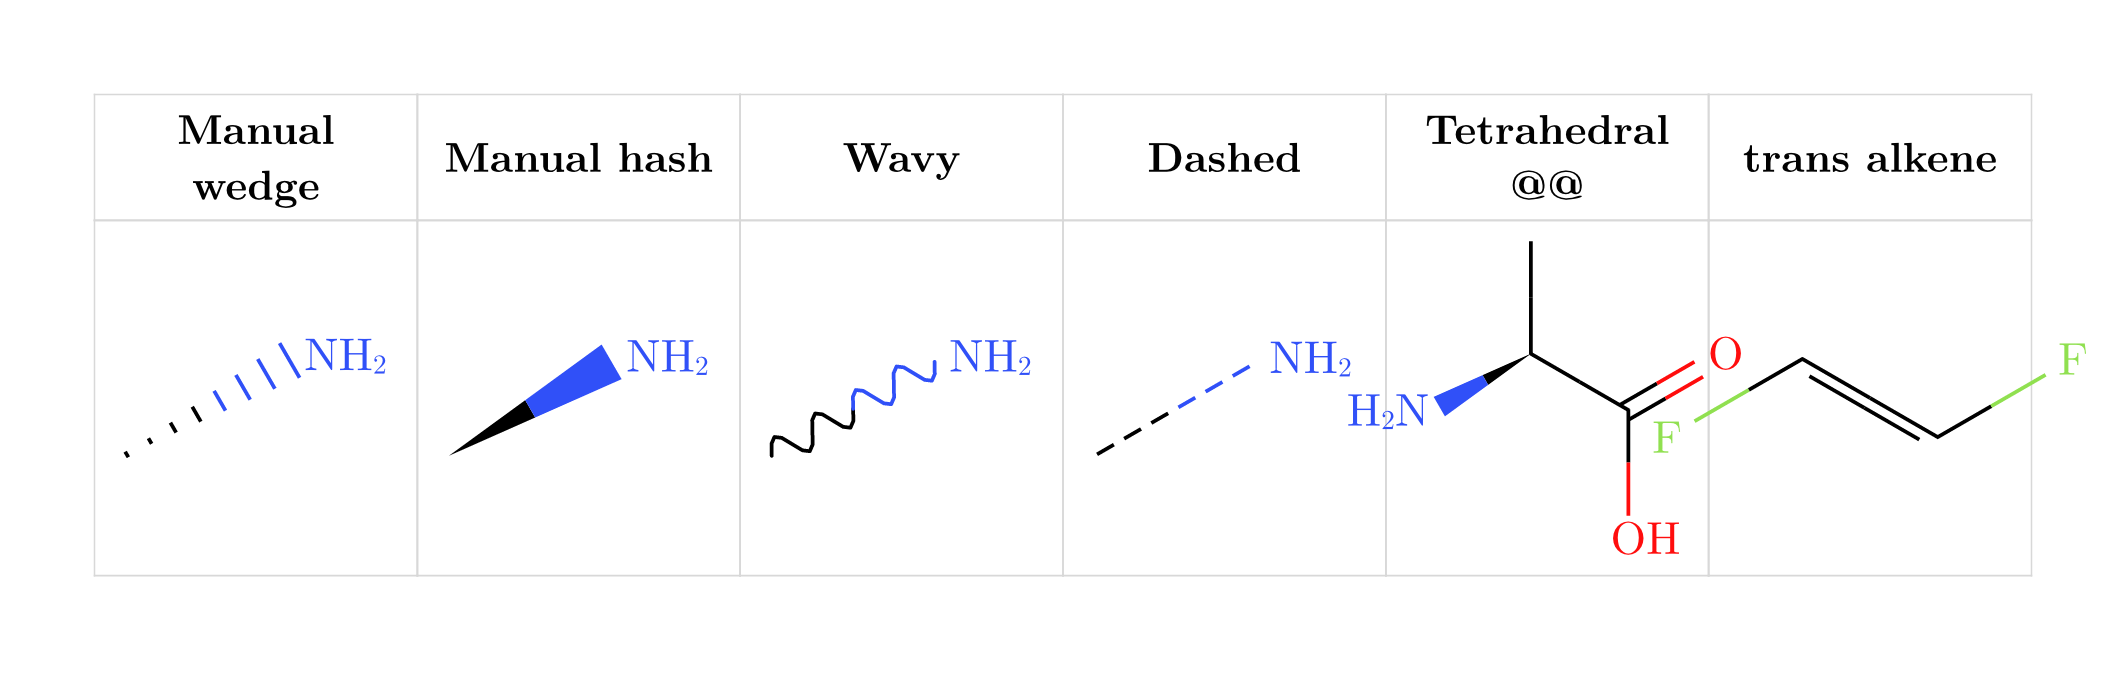
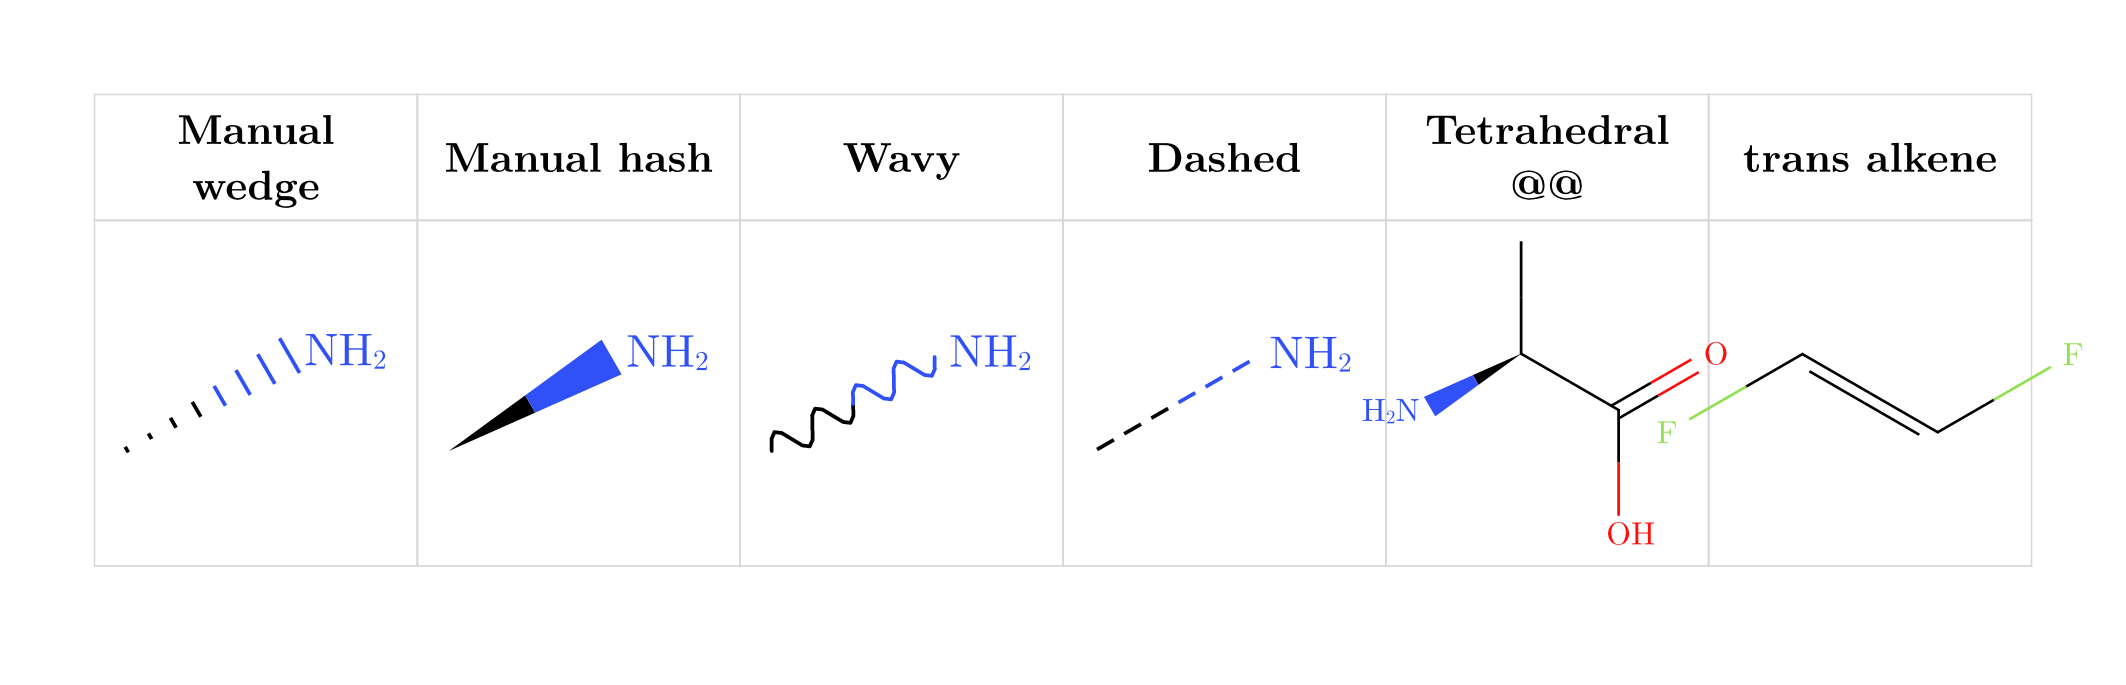
Scale README stereochemistry examples

diff --git a/README.md b/README.md
@@ -514,8 +514,8 @@ a dashed bond for hydrogen bonds, partial bonds, and coordination.
   [#smiles("C!hN")],
   [#smiles("C!sN")],
   [#smiles("C!dN")],
-  [#smiles("N[C@@H](C)C(=O)O")],
-  [#smiles("F/C=C/F")],
+  [#smiles("N[C@@H](C)C(=O)O", scale: 0.7)],
+  [#smiles("F/C=C/F", scale: 0.7)],
 )
 ```
 
